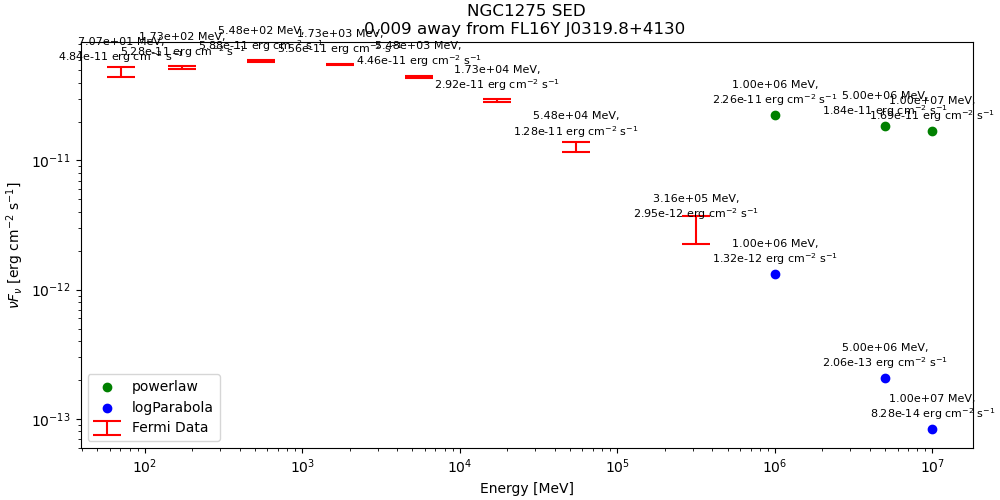
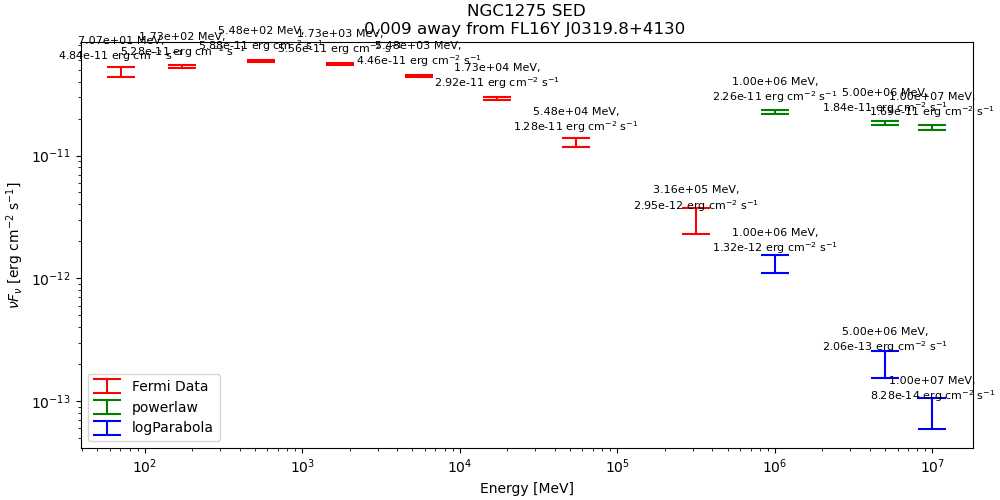
sed

diff --git a/fermi/sourcesfermi.py b/fermi/sourcesfermi.py
@@ -133,13 +133,25 @@ for i, s in enumerate(sourceName):
     sep_deg = sep2d[i].deg
 
     print(f"Closest source was {sep_deg:.3f} deg away")
-    summary_rows.append(cat[idx[i]])
+
     # Extrapolate to my energies #
     dNdE_PL = flxden_PL[i] * (sy_en/pivot[i])**(-ix_PL[i])
     dNdE_LP = flxden_LP[i] * (sy_en/pivot[i])**(-(ix_LP[i] + beta_LP[i] * np.log(sy_en/pivot[i])))
 
     nuFnu_PL = sy_erg**2 * dNdE_PL/1.602e-6 # erg cm-2 s-1
     nuFnu_LP = sy_erg**2 * dNdE_LP/1.602e-6
+
+    # error propagation #
+    L = np.log(sy_en/pivot[i])
+    
+    PL_var = ((flxden_err_PL[i]/flxden_PL[i])**2
+             + (L**2)*ix_err_PL[i]**2)
+    nuFnu_PL_err = nuFnu_PL * np.sqrt(PL_var)
+
+    LP_var = ((flxden_err_LP[i]/flxden_LP[i])**2
+             + (L**2)*ix_err_LP[i]**2
+             + (L**4)*beta_err_LP[i]**2)
+    nuFnu_LP_err = nuFnu_LP * np.sqrt(LP_var)
 
     # Separate array for upper limits #
     uplim_mask = np.isnan(unc_flux_lower[i])
@@ -157,23 +169,29 @@ for i, s in enumerate(sourceName):
             label="Fermi Data")
     for x, y in zip(e_mids, nufnu[i]):
         plt.annotate(f"{x:.2e} MeV,\n{y:.2e} erg cm$^{{-2}}$ s$^{{-1}}$",
-                 xy=(x, y), xytext=(0, 8),
-                 textcoords='offset points',
-                 fontsize=8, ha='center')
+            xy=(x, y), xytext=(0, 8),
+            textcoords='offset points',
+            fontsize=8, ha='center')
 
-    plt.scatter(sy_en,nuFnu_PL,label="powerlaw",color='green')
+    plt.errorbar(sy_en,nuFnu_PL,
+            yerr=nuFnu_PL_err, color='g',fmt='none',
+            capsize=10,capthick=1.5,elinewidth=1.5,
+            label="powerlaw")
     for x, y in zip(sy_en, nuFnu_PL):
         plt.annotate(f"{x:.2e} MeV,\n{y:.2e} erg cm$^{{-2}}$ s$^{{-1}}$",
-                 xy=(x, y), xytext=(0, 8),
-                 textcoords='offset points',
-                 fontsize=8, ha='center')
+            xy=(x, y), xytext=(0, 8),
+            textcoords='offset points',
+            fontsize=8, ha='center')
 
-    plt.scatter(sy_en,nuFnu_LP,label="logParabola",color='blue')
+    plt.errorbar(sy_en,nuFnu_LP,
+            yerr=nuFnu_LP_err,color='b',fmt='none',
+            capsize=10,capthick=1.5,elinewidth=1.5,
+            label="logParabola")
     for x, y in zip(sy_en, nuFnu_LP):
         plt.annotate(f"{x:.2e} MeV,\n{y:.2e} erg cm$^{{-2}}$ s$^{{-1}}$",
-                 xy=(x, y), xytext=(0, 8),
-                 textcoords='offset points',
-                 fontsize=8, ha='center')
+            xy=(x, y), xytext=(0, 8),
+            textcoords='offset points',
+            fontsize=8, ha='center')
 
     plt.yscale('log')
     plt.xscale('log')
